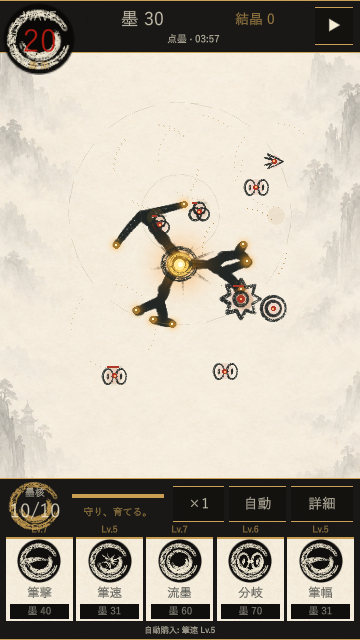
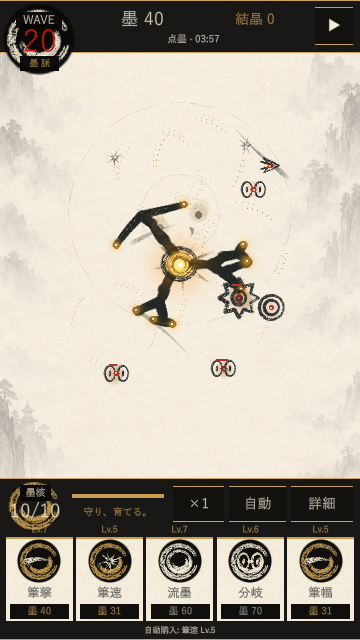
fix: separate seal labels from textured ink rings

diff --git a/UnitySandbox/Assets/BokumyakuPrototype/Presentation/BokumyakuGame.InkHud.cs b/UnitySandbox/Assets/BokumyakuPrototype/Presentation/BokumyakuGame.InkHud.cs
@@ -29,9 +29,11 @@ namespace Bokumyaku.Presentation
   {
    InkPanel(new Rect(0,0,440,65));
    Dot(new Vector2(48,48),44,hudBlack);InkStamp(coreInk,new Vector2(48,48),106,hudWhite);
-   HudText(new Rect(13,10,70,21),"WAVE",15,hudWhite);
+   Fill(new Rect(20,15,56,20),hudBlack);
+   HudText(new Rect(20,15,56,20),"WAVE",14,hudWhite);
    HudText(new Rect(8,30,80,42),Run.Wave.ToString(),38,new Color(.75f,.10f,.06f));
-   HudText(new Rect(15,72,66,16),"墨 脈",11,hudGold);
+   Fill(new Rect(24,68,48,18),hudBlack);
+   HudText(new Rect(24,68,48,18),"墨 脈",11,hudGold);
    HudText(new Rect(102,10,145,28),"墨 "+Run.RunInk,22,hudWhite);
    HudText(new Rect(250,10,122,28),"結晶 "+Meta.Crystals,17,hudGold);
    HudText(new Rect(102,38,270,20),WeaponNames[(int)Run.Weapon]+" · "+FormatTime(Run.ElapsedSeconds),12,hudWhite);
@@ -39,7 +41,8 @@ namespace Bokumyaku.Presentation
    float y=height-198;
    InkPanel(new Rect(0,y,440,198));
    InkStamp(coreInk,new Vector2(43,y+34),85,hudGold);
-   HudText(new Rect(15,y+8,56,19),"墨核",12,hudWhite);
+   Fill(new Rect(24,y+8,38,19),hudBlack);
+   HudText(new Rect(24,y+8,38,19),"墨核",12,hudWhite);
    HudText(new Rect(10,y+27,66,28),Run.CoreHp+"/10",23,hudWhite);
    Fill(new Rect(88,y+20,112,5),new Color(.23f,.20f,.15f));
    Fill(new Rect(88,y+20,112*Mathf.Clamp01(Run.CoreHp/10f),5),hudGold);

diff --git a/docs/STATE.md b/docs/STATE.md
@@ -10,11 +10,11 @@
 - 初週目標案は実戦60分/日で初日40〜55、7日目80〜110Wave（未検証）。分割は計画のみ。
 
 ## 直近結果
-- 検証区分: ゲーム試作の限定確認（金の光/文字スタイルのUnityコンパイルと360×640画面。Wave小文字は可読性未達）。全テスト/Windowsビルド/実機測定なし。
+- 検証区分: ゲーム試作の限定確認（金の光/文字スタイルのUnityコンパイルと360×640画面。Wave/墨核の小文字は局所下地で目視確認済み）。全テスト/Windowsビルド/実機測定なし。
 - 隔離セーブに100結晶を与え、画面クリックで祖墨Lv.1/残92結晶を確認。再読込後も保持。研究ボタン高32→44、敵図鑑のボス説明を八棘へ修正。現在Console error0/warning0。
 - 画面と手順はBOKUMYAKU_PROCEDURAL_INK.md。Play停止・一時GameView設定復元済み。最新Windowsビルドはv0.11。
 
 ## 次の一手
-1. 参考画像へ近づける美術仕上げを優先。Wave小文字の可読性（未解決）、UIの筆縁と戦場の枝密度、強化札の購入操作を確認。その後SE検証。記録ありの縦画面と攻撃筆跡の位置整合を確認。密集時のHP重なりは残件（核と敵の色/形は識別可能）。
+1. 参考画像へ近づける美術仕上げを優先。Wave小文字は墨黒の下地で可読性修正済み、UIの筆縁と戦場の枝密度、強化札の購入操作を確認。その後SE検証。記録ありの縦画面と攻撃筆跡の位置整合を確認。密集時のHP重なりは残件（核と敵の色/形は識別可能）。
 2. BGMループ/聴感評価は未確認。実機タップ/ノッチ/性能、完成美術は未確認。
 3. 初週バランスを調整（初回5〜8分/研究2〜3周、最大3案）。長期曲線は再探索しない。

diff --git a/docs/BATTLE_UI_ART_DIRECTION.md b/docs/BATTLE_UI_ART_DIRECTION.md
@@ -19,3 +19,6 @@ evidence/portrait-ink-hud.png、ink-hud-controls.json。InkCheck.Arm→InkCheck.
 ## 金の光と文字スタイル（2026-10-23）
 墨核に放射状の筆飛沫と金色の柔らかい光を追加、枝先にも光と明点を追加。64×64の放射グラデーションを初期生成して使い回し、終了時破棄する。ゲーム判定/数値は変更しない。
 HUD文字をサイズ/色別にキャッシュし余白/固定高さを除去。Unityコンパイルと360×640実画面を再確認。核の光は確認できたがWave小文字の可読性は未解決。輪の筆模様との重なりも含め次回修正する。実機性能/フル検証は実施しない。Play停止/表示設定復元済み。証拠portrait-ink-hud.pngを更新。
+
+## 円相ラベルの可読性修正（2026-10-23）
+Wave/墨脈/墨核の小文字の背後に局所的な墨黒面を置く。360×640の実画面で各文字が読めることを確認。前回の文字スタイル変更だけでは直らず、白い筆模様と文字の重なりが主因だった。Unityコンパイル・隔離Play・画面確認、停止/表示復元を実施。参考画像相当の美術完成、実機性能の合格ではない。
